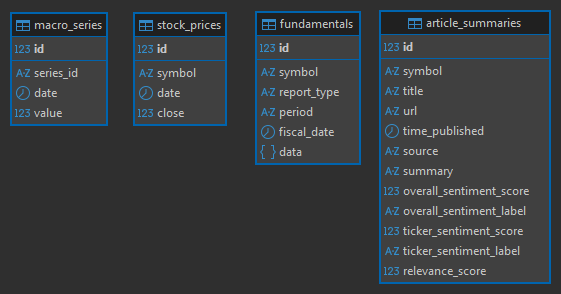
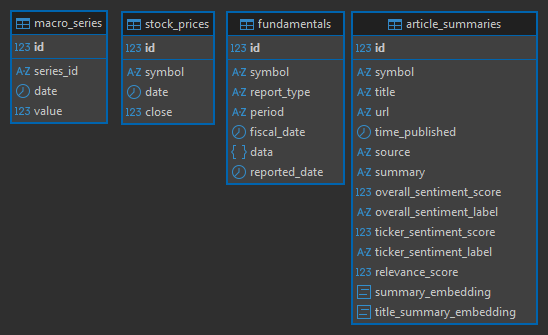
Create database documentation

Changed region(s): [[0.0, 0.0, 0.9927, 0.9796]]

diff --git a/docs/database.md b/docs/database.md
@@ -1,0 +1,254 @@
+# Database
+
+Postgres 16 with the pgvector extension (`pgvector/pgvector:pg16` in
+`docker-compose.yml`). It holds everything the agents read during a debate:
+financial statements, daily prices, FRED macro series and news articles with
+their embeddings. Debate state and transcripts are not stored here; they live
+in Redis (`src/cache/`).
+
+Code: `src/db/`. A short module overview and instructions for connecting from
+VS Code or `psql` are in `src/db/README.md`.
+
+## 1. Data flow
+
+```mermaid
+flowchart LR
+    av[[Alpha Vantage / yfinance / FRED]] -->|data_scripts/*, manual| lake[(datalake/raw_data<br/>read-only)]
+    lake -->|python -m src.db.load| loaders[src/db/loaders.py<br/>parse + upsert]
+    loaders --> pg[(Postgres / pgvector)]
+    loaders -->|articles only| emb[src/db/article_embeddings.py]
+    emb -->|text-embedding-005| vertex[[Vertex AI]]
+    emb -->|vectors| pg
+    pg -->|src/db/queries.py<br/>point-in-time reads| agents[Agents, API, retriever]
+```
+
+- **Write side** — `src/db/load.py` (CLI), `src/db/loaders.py`,
+  `src/db/article_embeddings.py`. Run by hand, never by the backend or Celery.
+- **Read side** — `src/db/queries.py`. All SQL used by the agents, the API and
+  the retriever lives there; nothing outside `src/db/` writes queries.
+
+## 2. Tables
+
+![Database tables](mas_db_diagram.png)
+
+The diagram predates `fundamentals.reported_date`; the tables below are
+authoritative (`src/db/models.py`).
+
+All tables have a surrogate `id` primary key and a natural unique key, which
+the loaders use for upserts.
+
+### `fundamentals`
+
+One row per financial report: one ticker, one report type, one period, one
+fiscal date. Hybrid shape: key columns plus the whole report in JSONB.
+
+| Column          | Type          | Notes                                                        |
+| --------------- | ------------- | ------------------------------------------------------------ |
+| `id`            | `integer`     | PK                                                           |
+| `symbol`        | `varchar(16)` | indexed                                                      |
+| `report_type`   | `varchar(32)` | `BALANCE_SHEET`, `CASH_FLOW`, `INCOME_STATEMENT`; indexed    |
+| `period`        | `varchar(16)` | `annual`, `quarterly` (`unknown` if the file has none)       |
+| `fiscal_date`   | `date`        | `fiscalDateEnding`, end of the reporting period; indexed     |
+| `reported_date` | `date`, null  | publication date (Alpha Vantage `EARNINGS.reportedDate`); indexed. `NULL` for files from the previous datalake version |
+| `data`          | `jsonb`       | the full report, values normalised (see §3.2)                |
+
+Unique key: `(symbol, report_type, period, fiscal_date)` — `uq_fundamentals_key`.
+
+### `stock_prices`
+
+| Column   | Type             | Notes          |
+| -------- | ---------------- | -------------- |
+| `id`     | `integer`        | PK             |
+| `symbol` | `varchar(16)`    | indexed        |
+| `date`   | `date`           | indexed        |
+| `close`  | `numeric(20, 6)` | closing price  |
+
+Unique key: `(symbol, date)` — `uq_stock_price_key`. This table also defines
+which tickers exist (`GET /tickers`) and the as-of date range offered by
+`GET /meta`.
+
+### `article_summaries`
+
+| Column                    | Type           | Notes                                       |
+| ------------------------- | -------------- | ------------------------------------------- |
+| `id`                      | `integer`      | PK                                          |
+| `symbol`                  | `varchar(16)`  | ticker the article was fetched for; indexed |
+| `title`                   | `varchar`      |                                             |
+| `url`                     | `varchar`      |                                             |
+| `time_published`          | `timestamp`    | Alpha Vantage `time_published`              |
+| `source`                  | `varchar`      |                                             |
+| `summary`                 | `varchar`      |                                             |
+| `overall_sentiment_score` | `float`        |                                             |
+| `overall_sentiment_label` | `varchar(32)`  |                                             |
+| `ticker_sentiment_score`  | `float`        | sentiment towards `symbol`                  |
+| `ticker_sentiment_label`  | `varchar(32)`  |                                             |
+| `relevance_score`         | `float`        | relevance of the article to `symbol`        |
+| `summary_embedding`       | `vector(768)`  | embedding of `summary`                      |
+| `title_summary_embedding` | `vector(768)`  | embedding of `title` + blank line + `summary` |
+
+Unique key: `(symbol, url)` — `uq_article_key`. The same article can appear
+under several tickers, once per ticker. Everything except `id` and the
+embeddings may be `NULL`. There is no vector index; similarity search is an
+exact scan over one ticker's articles.
+
+### `macro_series`
+
+| Column      | Type          | Notes                                       |
+| ----------- | ------------- | ------------------------------------------- |
+| `id`        | `integer`     | PK                                          |
+| `series_id` | `varchar(32)` | FRED series id (the CSV file name); indexed |
+| `date`      | `date`        | indexed                                     |
+| `value`     | `float`       |                                             |
+
+Unique key: `(series_id, date)` — `uq_macro_key`. Not tied to a ticker.
+
+## 3. Loading
+
+```bash
+uv run python -m src.db.load                                 # everything
+uv run python -m src.db.load --datasets fundamentals prices  # chosen datasets
+uv run python -m src.db.load --datalake ../Datalake --no-init
+uv run python -m src.db.load --no-embed                      # skip embeddings
+```
+
+Steps: find `raw_data` → create the schema (`init_db`, unless `--no-init`) →
+load the chosen datasets → embed new articles (when `articles` was loaded).
+
+### 3.1 Sources
+
+`resolve_raw_data` looks for a `raw_data` directory in: the `--datalake`
+argument, the `DATALAKE_PATH` variable, `/datalake` (the container mount),
+`../datalake`, `../Datalake`.
+
+| Dataset (`--datasets`) | Table               | Files in `raw_data/`                                   |
+| ---------------------- | ------------------- | ------------------------------------------------------ |
+| `fundamentals`         | `fundamentals`      | `BALANCE_SHEET/`, `CASH_FLOW/`, `INCOME_STATEMENT/` — `{TICKER}_{period}.json` with `symbol`, `period`, `reports[]` |
+| `prices`               | `stock_prices`      | `stock_price/*.json` — `symbol`, `reports[]` with `date`, `close` |
+| `articles`             | `article_summaries` | `ARTICLE_SUMMARIES/{TICKER}_*.json` — a list of articles or `{"feed": [...]}` |
+| `macro`                | `macro_series`      | `FRED_MACRO/{SERIES_ID}.csv` — header row, then `DATE,value` |
+
+Only files directly in these directories are read, so subdirectories such as
+`deprecated/` are skipped. When `symbol` is missing from a file, it is taken
+from the file name prefix (always so for articles).
+
+### 3.2 Cleaning
+
+- Report values (`fundamentals.data`): `"None"`, `""`, `"-"`, `"."` → `null`;
+  integer and decimal strings → numbers; other strings unchanged.
+  `reportedDate` is moved out of `data` into the `reported_date` column.
+- Dates: `YYYY-MM-DD`; invalid dates become `NULL`.
+- `time_published`: `20250101T093000`, `20250101T0930` or `YYYY-MM-DD`.
+- Price rows without a date or close, macro rows without a date or value, and
+  articles without a URL are skipped.
+
+### 3.3 Upsert
+
+Every loader runs `INSERT ... ON CONFLICT (<unique key>) DO UPDATE` in
+batches of 500 rows, then commits. Re-running a load updates rows in place
+and never duplicates them. Rows deleted from the datalake are not deleted
+from the database.
+
+For `article_summaries`, the update sets only the columns read from the file,
+so stored embeddings survive a re-load. An embedding is reset to `NULL` when
+its source text changed (`summary` for `summary_embedding`; `title` or
+`summary` for `title_summary_embedding`), so the next embedding step
+recomputes it.
+
+### 3.4 Embeddings
+
+`embed_article_summaries` selects articles with a `NULL` embedding, builds the
+text for each column, sends it to Vertex AI `text-embedding-005`
+(`src/retriever/embeddings.py`, 768 dims) and commits every 200 rows. An
+interrupted run resumes where it stopped: re-run
+`python -m src.db.load --datasets articles`.
+
+- Needs `GCP_PROJECT_ID` and Application Default Credentials
+  (`gcloud auth application-default login`). Without `GCP_PROJECT_ID` the step
+  is skipped.
+- Articles with no text get no vector and are never returned by similarity
+  search. `count_articles_without_embedding` reports articles that have text
+  but no vector yet.
+
+### 3.5 Schema changes
+
+There are no Alembic migrations. `init_db` runs:
+
+1. `CREATE EXTENSION IF NOT EXISTS vector`,
+2. `Base.metadata.create_all` — creates missing tables, never alters existing ones,
+3. the `ALTER TABLE ... ADD COLUMN IF NOT EXISTS` / `CREATE INDEX IF NOT EXISTS`
+   statements in `_ADDED_COLUMNS` for columns added after the first release
+   (both embedding columns, `fundamentals.reported_date` and its index).
+
+A new column on an existing table needs an entry in `_ADDED_COLUMNS` as well
+as in `models.py`. Changing a column type or a unique key needs a manual
+migration or a fresh volume (`docker compose down -v`, then a full load).
+
+## 4. Reading: point-in-time queries
+
+Every read used by a debate is bounded by the debate's `as_of_date`, so the
+agents never see data published after the simulated "today"
+(`docs/evaluation.md` §1). The bound is **inclusive**
+(`docs/project_decisions.md`, 2026-09-27).
+
+| Function (`src/db/queries.py`)     | Used by                         | Point-in-time filter |
+| ---------------------------------- | ------------------------------- | -------------------- |
+| `fetch_fundamentals`               | Financial agent                 | `coalesce(reported_date, fiscal_date + 90 days) <= as_of_date`; last 40 distinct fiscal dates, all report types and periods for each |
+| `fetch_prices`                     | Financial agent                 | `date <= as_of_date`, last 3600 days |
+| `fetch_macro_series`               | Macro agent                     | `date <= as_of_date`, last 3600 days, all series |
+| `fetch_recent_articles`            | Sentiment agent                 | `time_published < as_of_date + 1 day`; 10 newest |
+| `fetch_similar_articles`           | Retriever (`search_articles` tool) | as above, plus cosine similarity ≥ 0.5 on `title_summary_embedding` by default |
+| `fetch_articles_by_ids`            | Sentiment agent (later rounds)  | as above, plus the ids found in earlier rounds |
+| `count_articles_without_embedding` | Sentiment agent (warning)       | as above |
+| `fetch_tickers`                    | `GET /tickers`, `POST /predict/start` | none — not debate data |
+| `fetch_price_date_range`           | `GET /meta`                     | none — not debate data |
+
+Two details of the filters:
+
+- **Reports count from their publication date, not their fiscal date.** A
+  quarter ending 31 March is published weeks later, so filtering on
+  `fiscal_date` alone would leak it into debates dated in between. Rows
+  without `reported_date` fall back to `fiscal_date + 90 days`
+  (`REPORT_LAG_FALLBACK`), an upper bound on the SEC filing deadline.
+- **Timestamps use `< as_of_date + 1 day`.** `time_published` is a timestamp;
+  `<= as_of_date` would compare against midnight and drop the articles
+  published on `as_of_date` itself.
+
+Article queries never load the embedding columns (`defer`), as callers do not
+need them.
+
+## 5. Useful SQL
+
+```sql
+-- Row counts and covered dates per ticker
+SELECT symbol, count(*), min(date), max(date)
+FROM stock_prices GROUP BY symbol ORDER BY symbol;
+
+-- Reports without a publication date (they use the 90-day fallback)
+SELECT symbol, report_type, period, count(*)
+FROM fundamentals WHERE reported_date IS NULL
+GROUP BY 1, 2, 3 ORDER BY 1, 2, 3;
+
+-- A field from the JSONB payload
+SELECT symbol, fiscal_date, reported_date, (data->>'totalAssets')::numeric AS total_assets
+FROM fundamentals
+WHERE report_type = 'BALANCE_SHEET' AND period = 'quarterly' AND symbol = 'AAPL'
+ORDER BY fiscal_date DESC;
+
+-- Embedding progress
+SELECT count(*) AS articles,
+       count(summary_embedding) AS summary_vectors,
+       count(title_summary_embedding) AS title_summary_vectors
+FROM article_summaries;
+```
+
+## 6. Connection
+
+| Setting  | Value                                                       |
+| -------- | ----------------------------------------------------------- |
+| URL      | `DATABASE_URL`, default `postgresql://user:password@localhost:5432/mas_db` |
+| In Docker | `postgresql://user:password@postgres:5432/mas_db` (set in `docker-compose.yml`) |
+| Storage  | Docker volume `postgres_data`                               |
+
+`src/db/session.py` creates one engine per process; `get_session()` returns a
+new session that the caller closes. Query functions take a session and never
+open or commit one themselves.

diff --git a/docs/ARCHITECTURE.md b/docs/ARCHITECTURE.md
@@ -175,5 +175,6 @@ store).
 - `docs/agents.md` — full debate protocol (round limit, termination rule)
 - `docs/evaluation.md` — backtesting methodology, network-isolation design,
   metrics
+- `docs/database.md` — tables, loading pipeline, point-in-time queries
 - `docs/project_decisions.md` — decision log (currently empty, needs content
   or should be replaced by `docs/adr/`)
